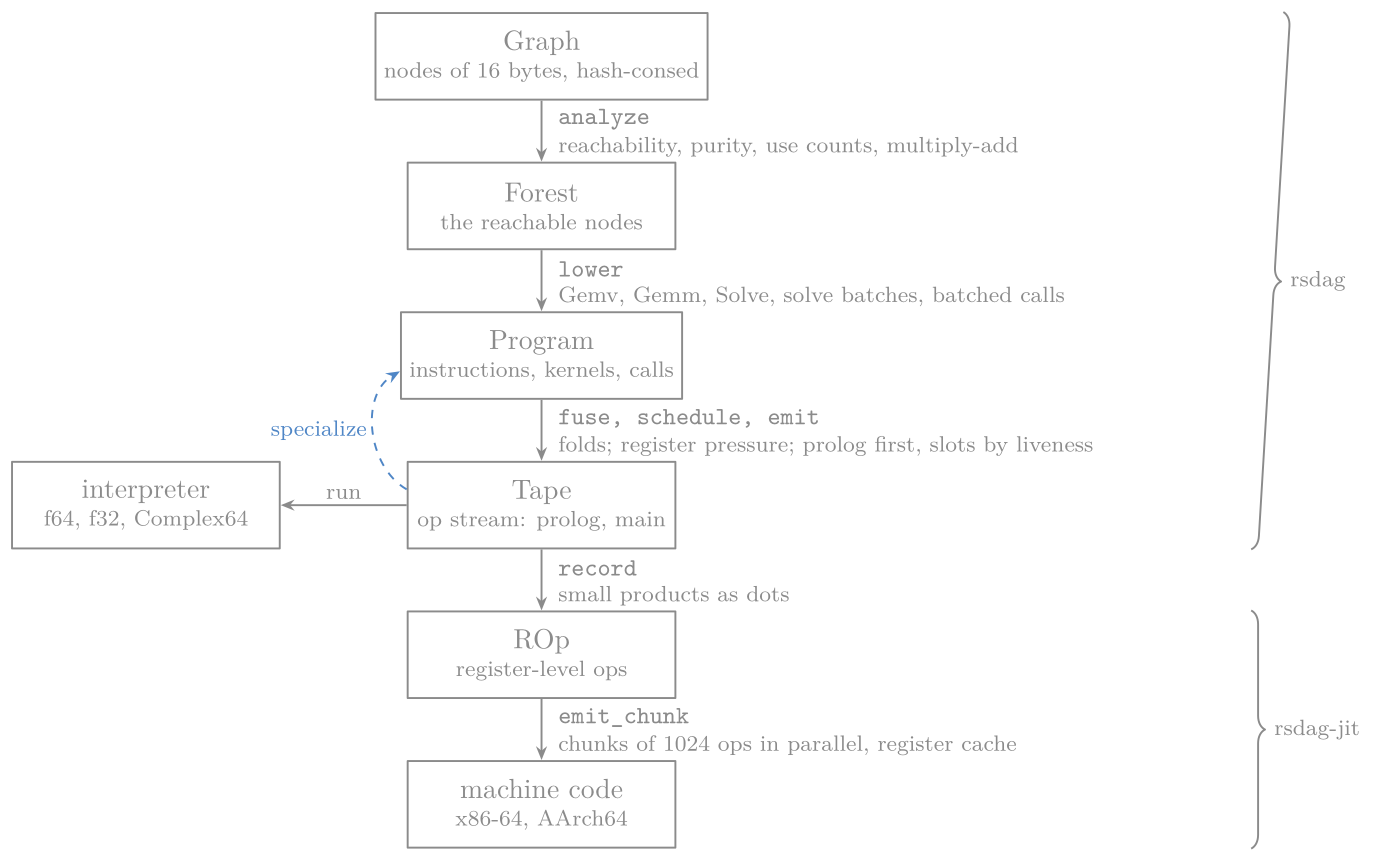
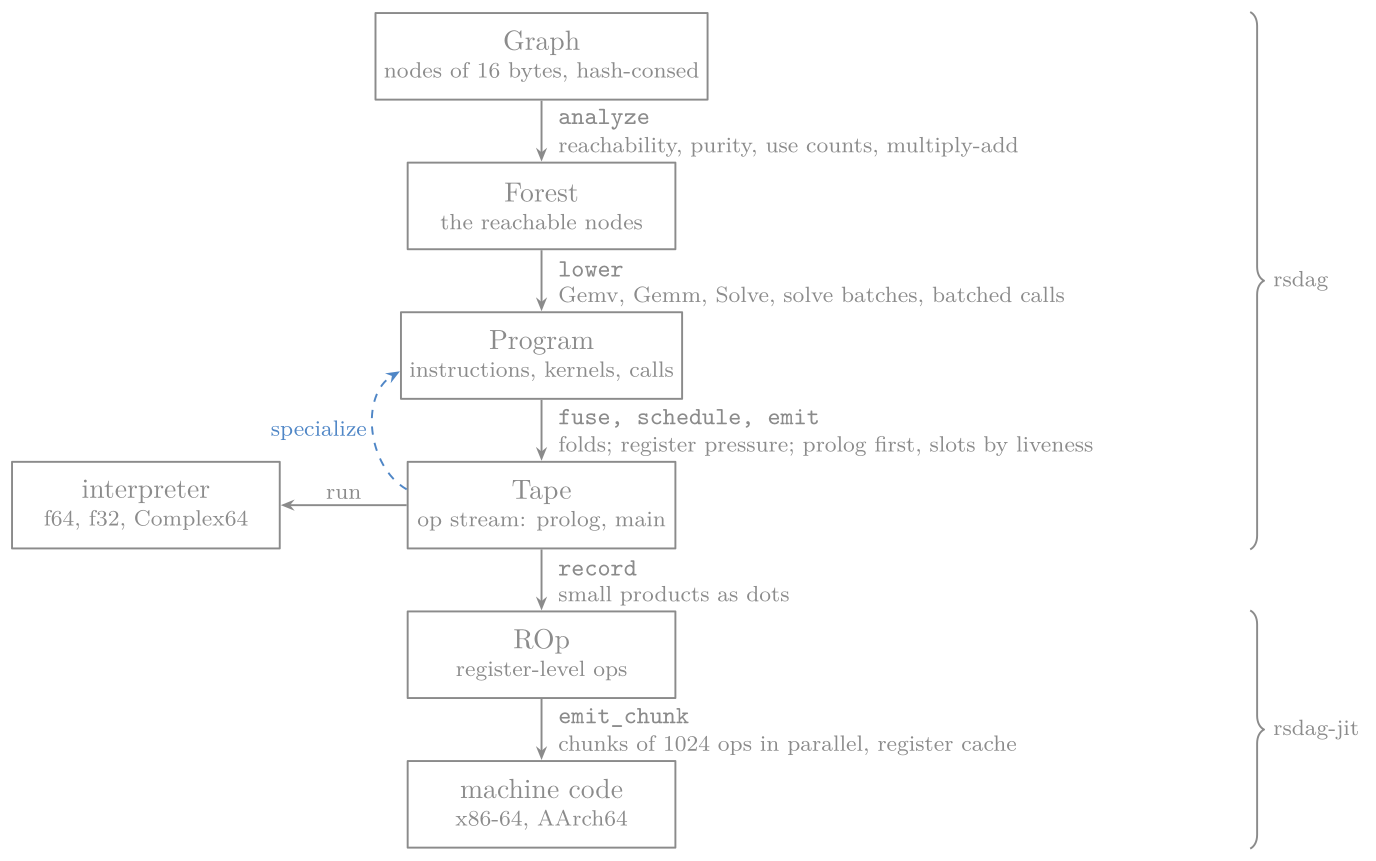
Lowering diagram: braces at one x (#166)

diff --git a/docs/diagrams/lowering.tex b/docs/diagrams/lowering.tex
@@ -32,10 +32,10 @@
   \draw[state] (tape.west) ++(0, 2mm) to[out=150, in=210] node[lbl, left] {specialize}
     ($(prog.west) + (0, -2mm)$);
   \draw[decorate, decoration={brace, amplitude=5pt}]
-    ($(graph.north east) + (73mm, 0)$) -- node[lbl, right=6pt] {rsdag}
-    ($(tape.south east) + (73mm, 0)$);
+    ($(graph.north) + (90mm, 0)$) -- node[lbl, right=6pt] {rsdag}
+    ($(tape.south) + (90mm, 0)$);
   \draw[decorate, decoration={brace, amplitude=5pt}]
-    ($(rop.north east) + (73mm, 0)$) -- node[lbl, right=6pt] {rsdag-jit}
-    ($(mc.south east) + (73mm, 0)$);
+    ($(rop.north) + (90mm, 0)$) -- node[lbl, right=6pt] {rsdag-jit}
+    ($(mc.south) + (90mm, 0)$);
 \end{tikzpicture}
 \end{document}
